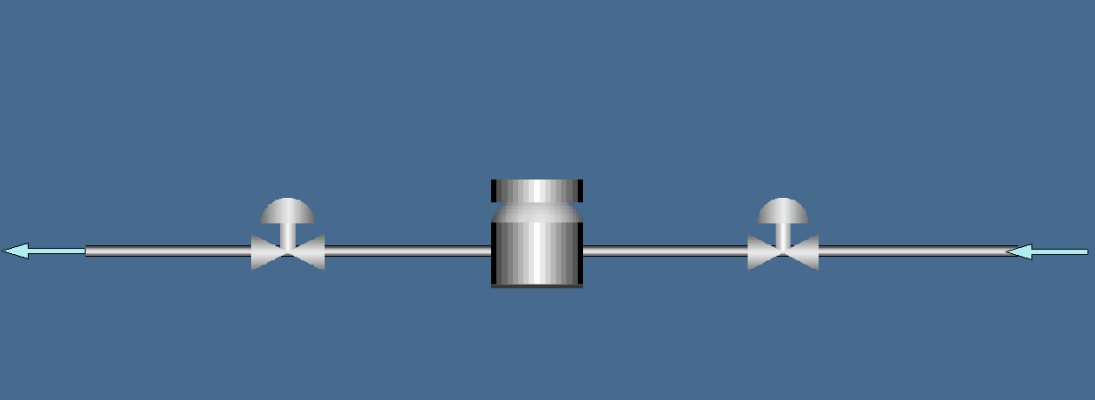
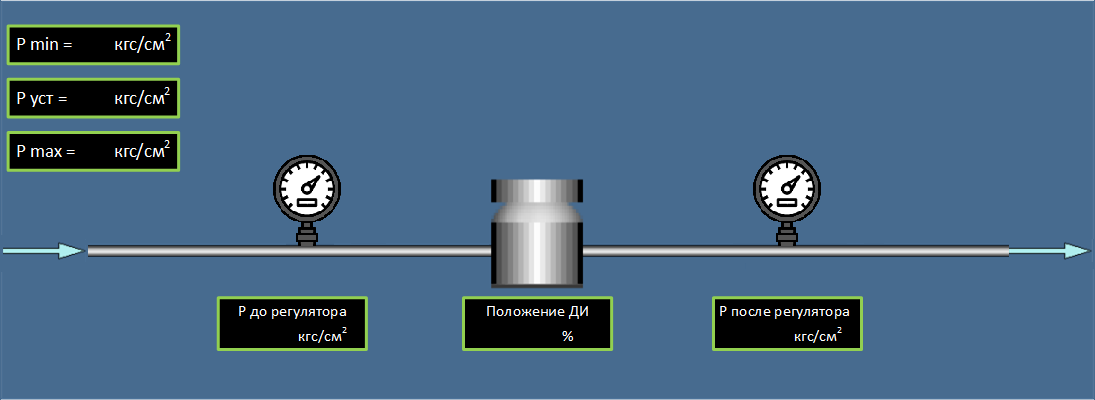
Переделал задний фон, переместил окна

diff --git a/main.py b/main.py
@@ -7,43 +7,37 @@ class Tasks(tk.Frame):
         super().__init__()
         self.main = main
         self.init_main()
-        self.pressure_inlet = tk.Label(bg="grey", font=('times', 20), justify=tk.LEFT, anchor='nw',text='0.00 кгс/см2')
-        self.pressure_outlet = tk.Label(bg="grey", font=('times', 20), justify=tk.LEFT, anchor='nw',text='0.00 кгс/см2')
-        self.regulator_position = tk.Label(bg="grey", font=('times', 20), justify=tk.LEFT, anchor='nw', text='0 %')
-        self.pressure_inlet.place(x=30, y=50)
-        self.pressure_outlet.place(x=250, y=50)
-        self.regulator_position.place(x=200, y=120)
+        self.pressure_inlet = tk.Label(bg='black',fg='green', font=('times', 12), justify=tk.LEFT, anchor='nw',text='0.00')
+        self.pressure_outlet = tk.Label(bg='black',fg='green', font=('times', 12), justify=tk.LEFT, anchor='nw',text='0.00')
+        self.regulator_position = tk.Label(bg='black',fg='green', font=('times', 12), justify=tk.LEFT, anchor='nw', text='0.0')
+        self.pressure_inlet.place(x=260, y=325)
+        self.pressure_outlet.place(x=755, y=325)
+        self.regulator_position.place(x=525, y=325)
 
     def init_main(self):
         self.background = tk.PhotoImage(file='images/Back.png')
         background_label = tk.Label(image=self.background)
         background_label.place(x=0,y=0)
-        heading_inlet = tk.Label( font=('times', 12),bg='black', fg='green', justify=tk.LEFT, anchor='nw',text='Давление до регулятора')
-        heading_outlet = tk.Label(font=('times', 12), justify=tk.LEFT, anchor='nw', text='Давление после регулятора')
-        needle_position = tk.Label(font=('times', 12), justify=tk.LEFT, anchor='nw', text='Положение иглы-дозатора')
-        p_min = tk.Label(font=('times', 12), justify=tk.LEFT, anchor='nw', text='P min 0.00 MPa')
-        p_max = tk.Label(font=('times', 12), justify=tk.LEFT, anchor='nw', text='P max 0.00 MPa')
-        p_value = tk.Label(font=('times', 12), justify=tk.LEFT, anchor='nw', text='P уст 0.00 MPa')
-        b_open = tk.Button(bg='#e6e7e4', bd=0, activebackground='#636362', text='открыть регулятор')
-        b_close = tk.Button(bg='#e6e7e4', bd=0, activebackground='#636362', text='закрыть регулятор')
+        p_min = tk.Label(font=('times', 12), bg='black',fg='green',justify=tk.LEFT, anchor='nw', text='0.00')
+        p_max = tk.Label(font=('times', 12), bg='black',fg='green',justify=tk.LEFT, anchor='nw', text='0.00')
+        p_value = tk.Label(font=('times', 12), bg='black',fg='green',justify=tk.LEFT, anchor='nw', text='0.00')
+        b_open = tk.Button(bg='#e6e7e4', bd=0, activebackground='#636362', text='Открыть регулятор')
+        b_close = tk.Button(bg='#e6e7e4', bd=0, activebackground='#636362', text='Закрыть регулятор')
         b_pmin = tk.Button(bg='#e6e7e4', bd=0, activebackground='#636362', text='Редактировать',command=self.input_box)
         b_pmax = tk.Button(bg='#e6e7e4', bd=0, activebackground='#636362', text='Редактировать',command=self.input_box)
         b_new_value = tk.Button(bg='#e6e7e4', bd=0, activebackground='#636362', text='Редактировать',command=self.input_box)
-        b_start_rp = tk.Button(bg='#e6e7e4', bd=0, activebackground='#636362', text='Старт')
-        b_stop_rp = tk.Button(bg='#e6e7e4', bd=0, activebackground='#636362', text='Стоп')
-        b_open.place(x=10, y=300)
-        b_close.place(x=330, y=300)
-        b_pmin.place(x=150, y=200)
-        b_pmax.place(x=150, y=260)
-        b_new_value.place(x=150, y=230)
-        b_start_rp.place(x=300, y=230)
-        b_stop_rp.place(x=400,y=230)
-        heading_inlet.place(x=0, y=10)
-        heading_outlet.place(x=220, y=10)
-        needle_position.place(x=110, y=100)
-        p_min.place(x=10, y=200)
-        p_max.place(x=10,y=260)
-        p_value.place(x=10, y=230)
+        b_start_rp = tk.Button(bg='#e6e7e4', bd=0, activebackground='#636362', text='Старт', width='5')
+        b_stop_rp = tk.Button(bg='#e6e7e4', bd=0, activebackground='#636362', text='Стоп', width='5')
+        b_open.place(x=950, y=25)
+        b_close.place(x=950, y=60)
+        b_pmin.place(x=190, y=35)
+        b_pmax.place(x=190, y=142)
+        b_new_value.place(x=190, y=89)
+        b_start_rp.place(x=490, y=150)
+        b_stop_rp.place(x=550,y=150)
+        p_min.place(x=80, y=35)
+        p_max.place(x=80,y=142)
+        p_value.place(x=80,y=89)
 
     def input_box(self):
         self.window = tk.Toplevel()
